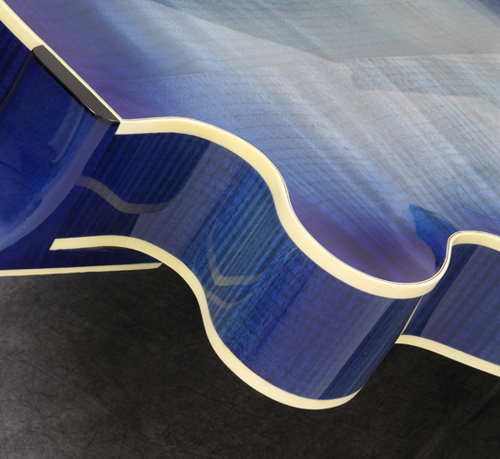
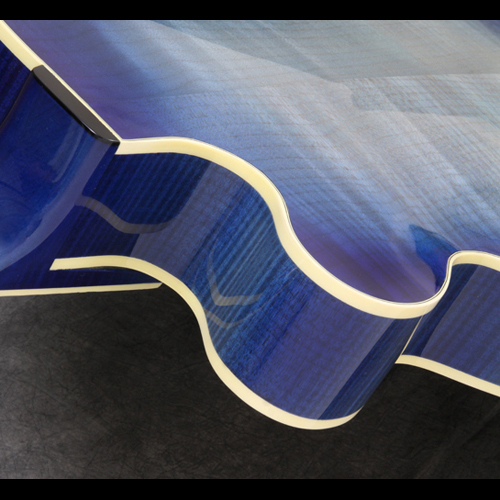
Media queries for desktop, modal pics all aligned

diff --git a/index.html b/index.html
@@ -58,7 +58,7 @@
               <a class="nav-link js-scroll-trigger" href="#contact">Contact</a>
             </li>
             <li class="nav-item">
-              <a href="https://www.facebook.com/myersguitars.llc/?ref=br_rs"> <img src="img/fb_nav.png" class="fb-nav"></a>
+              <a href="https://www.facebook.com/myersguitars.llc/?ref=br_rs" target="_blank"> <img src="img/fb_nav.png" class="fb-nav"></a>
             </li>
           </ul>
         </div>
@@ -88,8 +88,7 @@
             <h2 class="section-heading text-white">About Myers Guitars</h2>
             <hr class="light my-4">
             <p class="text-faded mb-4">
-I have been a part-time guitar builder since the early 1980’s when I built my first solid body electric from
-scratch with a power drill and a saber saw. In 1983 I was given a brief opportunity to learn archtop
+I have been a part-time guitar builder since the early 1980’s when I built my first solid body electric with a power drill and a saber saw. In 1983 I was given a brief opportunity to learn archtop
 guitar construction from an elderly cello maker with a shop in South Boston in exchange for my taking
 him out on Saturdays to run errands. Those Saturdays yielded one archtop guitar body. Then, as often happens, life intervened. I finished the archtop 18 years later.
 <br>
@@ -437,7 +436,7 @@ Any modification or repair performed on an instrument by a third party without a
 
 
 
-    <section id="media">
+    <section id="media" style="height: auto;">
       <div class="container">
         <div class="row">
           <div class="col-lg-8 mx-auto text-center">
@@ -481,11 +480,11 @@ Any modification or repair performed on an instrument by a third party without a
             <img src="img/phone_combined.jpg" class="contact-phone">
           </div>
           <div class="col-lg-4 mr-auto text-center">
-            <a href="mailto:chris@myersguitars.com"> <img src="img/email_combined.jpg" class="contact-phone"></a>
+            <a href="mailto:chris@myersguitars.com" target="_blank"> <img src="img/email_combined.jpg" class="contact-phone"></a>
             <!-- <p class="white"> Contact us by Email! </p> -->
           </div>
           <div class="col-lg-4 mr-auto text-center">
-              <a href="https://www.facebook.com/myersguitars.llc/?ref=br_rs"><img src="img/facebook_combined.jpg" class="contact-fb"></a>
+              <a href="https://www.facebook.com/myersguitars.llc/?ref=br_rs" target="_blank"><img src="img/facebook_combined.jpg" class="contact-fb"></a>
           </div>
         </div>
       </div>

diff --git a/css/custom.css b/css/custom.css
@@ -1,5 +1,5 @@
 body {
-  font-size: 1rem;
+  font-size: .8rem;
 }
 
 p {
@@ -122,7 +122,7 @@ div.carousel-item-active {
 }
 .modal-thumb {
   max-width: 500px;
-  max-height: 500px;
+  max-height: 400px;
 }
 .thumbnail-and-modal {
   text-align: center;
@@ -134,11 +134,16 @@ div.carousel-item-active {
 #mainNav.navbar-shrink {
     background-color: black;
 }
-/* @media  screen and (max-width: 1920px) {
+@media  screen and (min-width: 1920px) {
+  body {
+    font-size: 1.2rem;
+  }
+}
+@media  screen and (min-width: 1366px) {
   section {
     height: 100vh;
   }
-} */
+}
 #mainNav.navbar-shrink {
   background-color: black;
 }
